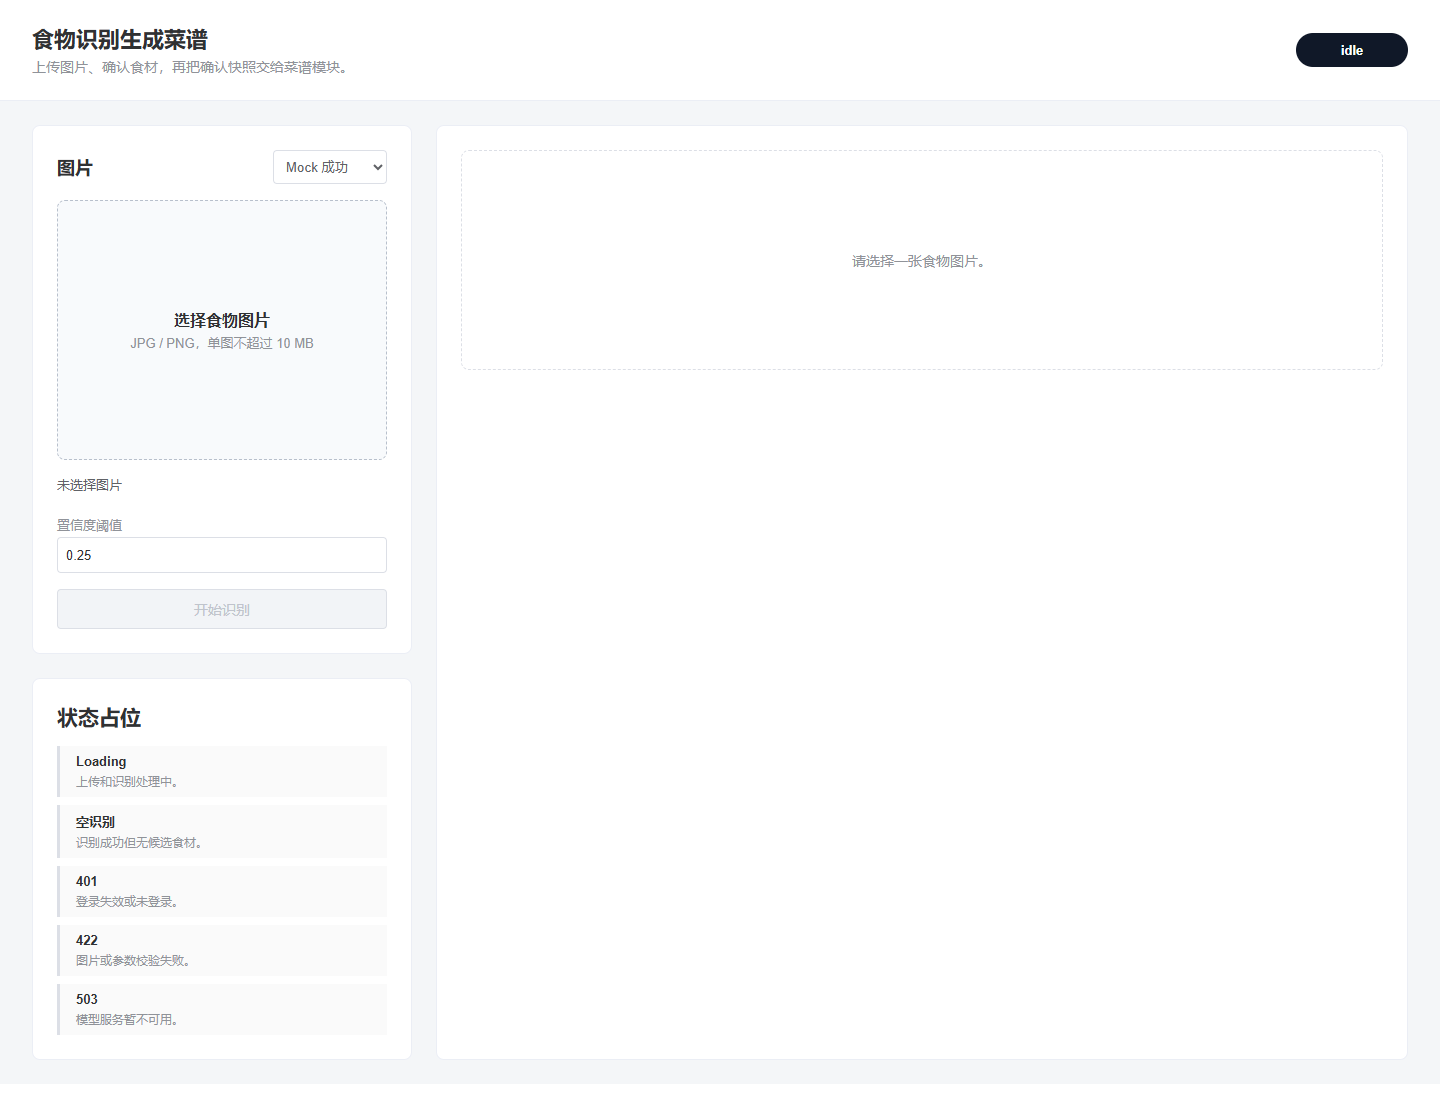
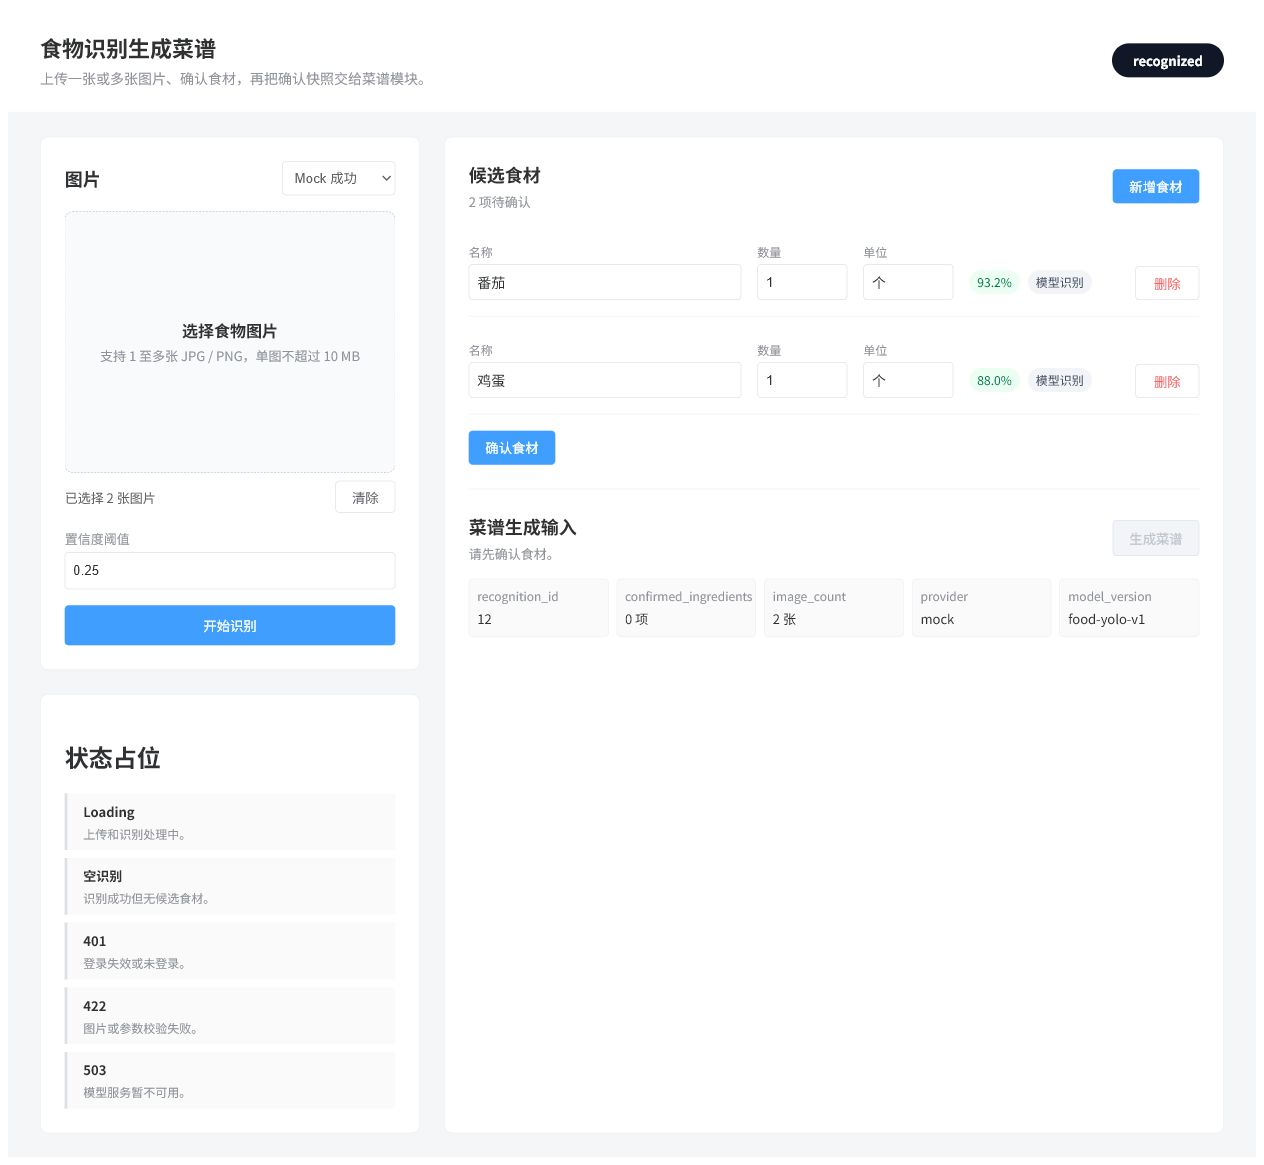
docs(frontend): 更新食物工作流Day1日志证据
- 记录多图上传实现、V1字段修正和测试结果

- 更新 Food 页面骨架截图

diff --git a/docs/daily_logs/刘楚涵/day1.md b/docs/daily_logs/刘楚涵/day1.md
@@ -1,138 +1,81 @@
 # 刘楚涵 Day1 个人工作日志
 
-- 日期：2026-07-14
+- 日期：2026-07-15（复核并修正 Day1 交付）
 - 分支：`feature/frontend-food-workflow`
-- 今日角色：前端工程师，负责上传、识别状态、食材增删改、确认和食物工作流主页面
+- 今日角色：食物识别工作流前端
 
-## 1. 今日任务
+## 1. 实际完成
 
-- 阅读 `DetectionPage.vue` 的上传、预览和错误处理，只复用思路，不直接扩大原页面。
-- 建立 `FoodRecipePage.vue` 的 `idle/selecting/uploading/recognized/confirmed/error` 状态。
-- 建立单图上传组件，限制 JPG/PNG，建议 10 MB 上限，支持本地预览。
-- 建立食材编辑组件，基于 success fixture 显示名称、置信度和来源。
-- 支持删除、手动新增、修改名称，确认前提示空名称和重复 key。
-- 建立 `api/food.js`，冻结 create/get/confirm 路径，并保留 Mock/注入客户端。
-- 为 Loading、空识别、401、422、503 预留可见状态。
-- 明确向菜谱展示区域输出 `recognition_id` 和 `confirmed_ingredients`。
-- 编写组件/API/页面基础测试，运行 Vitest，保存页面骨架截图。
-- 更新个人日志，并提交 router/sidebar 接线需求给闫灿宇。
+- 完成 `frontend/src/api/food.js` 三个 Food API 封装：创建识别、查询识别、确认食材。
+- 按新要求保留多图上传：前端表单提交 `images[]`、首图兼容字段 `image`、内部辅助字段 `image_count`。
+- 完成图片选择、拖拽、多图预览区域、Loading、空结果、错误状态和候选列表骨架。
+- 使用 canonical fixture 字段展示 `display_name` 与 `confidence`，截图中可见“番茄/鸡蛋”和 93.2%/88.0%。
+- 按 V1 `IngredientCandidate` / `ConfirmedIngredient` 增加前端类型说明：`frontend/src/components/food/ingredientTypes.js`。
+- 修正食材确认输出，确认接口只提交 `{ name, class_name, quantity, unit, source }`，不上传 `candidate_id`。
+- 更新组件/API/页面测试，覆盖多图上传、fixture 展示、确认 payload 和空/错误占位。
+- 保存页面骨架截图：`docs/daily_logs/刘楚涵/screenshots/food_page_skeleton.png`。
 
-## 2. 前置阅读
+## 2. 前置阅读和依据
 
-- `食物识别菜谱平台_五天并行开发计划.docx` 中刘楚涵 Day1 任务。
-- `frontend/src/views/DetectionPage.vue`
-- `frontend/src/utils/request.js`
-- `frontend/src/api/detection.js`
-- `frontend/src/assets/styles/variables.scss`
-- `frontend/src/fixtures/foodRecognition.js`
+- 已阅读 `docs/contracts/api_v1.md` 中本人任务相关的第 3、5、13 节。
+- 已阅读 `frontend/src/views/DetectionPage.vue` 上传/预览/状态处理思路。
+- 已阅读 `frontend/src/utils/request.js`，Food API 继续复用现有请求与认证封装。
+- 两份外部 PDF 位于 `D:\2026小学期\...`，本轮尝试读取时受本地权限/沙箱限制，未能直接提取内容；本轮以仓库内 V1 契约和现有前端实现为准继续修正。
 
-## 3. 流程理解
+## 3. 本轮修正的问题
 
-食物工作流不等待后端接线，Day1 先用 Mock 完成可操作骨架：选择单张图片后进入 `selecting`，调用 Mock 识别时进入 `uploading`，成功后进入 `recognized`，用户增删改并确认后进入 `confirmed`，异常统一进入 `error`。菜谱模块只消费确认快照，不直接消费候选识别结果。
+- 原实现仍混有旧字段 `key/name/confidence`，已改为 V1 候选字段 `candidate_id/class_name/display_name/confidence/bbox/source`。
+- 原确认 payload 会带旧字段，已改为 V1 `ConfirmedIngredient`。
+- 原多图需求被误收窄成单图，已按用户明确要求恢复多图选择与提交。
+- 原日志仍写“单图”和“重复 key”校验，已更新为多图与 V1 字段。
 
 ## 4. 修改文件
 
-- `frontend/src/views/FoodRecipePage.vue`
+- `frontend/src/api/food.js`
+- `frontend/src/fixtures/foodRecognition.js`
+- `frontend/src/fixtures/food_recognition_success.json`
+- `frontend/src/fixtures/food_recognition_empty.json`
 - `frontend/src/components/food/FoodImageUploader.vue`
 - `frontend/src/components/food/IngredientEditor.vue`
 - `frontend/src/components/food/RecognitionSummary.vue`
 - `frontend/src/components/food/ingredientEditorModel.js`
-- `frontend/src/api/food.js`
-- `frontend/src/fixtures/foodRecognition.js`
+- `frontend/src/components/food/ingredientTypes.js`
+- `frontend/src/api/__tests__/food.test.js`
 - `frontend/src/components/food/__tests__/FoodImageUploader.test.js`
 - `frontend/src/components/food/__tests__/IngredientEditor.test.js`
 - `frontend/src/views/__tests__/FoodRecipePage.test.js`
-- `frontend/src/api/__tests__/food.test.js`
-- `docs/integration/connection_requests.md`
 - `docs/daily_logs/刘楚涵/day1.md`
 - `docs/daily_logs/刘楚涵/screenshots/food_page_skeleton.png`
 
-## 5. DetectionPage 只复用思路的部分
-
-- 复用“左侧控制、右侧结果”的工作区组织思路，但不把食物流程塞进原检测页。
-- 复用上传前先进入本地状态、按钮 loading、请求失败后可恢复的思路。
-- 复用本地预览使用 Object URL 并在清理时 revoke 的思路。
-- 复用错误需要转成用户可见状态的思路，但食物页单独保留 401/422/503。
-- 不复用 DetectionPage 的场景/模型选择、批量/视频/摄像头、canvas 检测框绘制和旧 detection API。
-
-## 6. 实现思路
-
-- `FoodRecipePage.vue` 负责状态机和 Mock 场景选择，不接正式路由。
-- `FoodImageUploader.vue` 只处理单图选择、拖拽、类型/大小校验和预览。
-- `IngredientEditor.vue` 只处理候选食材的本地编辑、删除、新增和确认校验。
-- `RecognitionSummary.vue` 固化给菜谱模块的 props/emits 契约。
-- `api/food.js` 冻结 `/food/recognitions`、`/food/recognitions/{id}`、`/food/recognitions/{id}/ingredients`，并支持 `setFoodApiClient()` 或 `mockScenario`。
-
-## 7. 本人复核要点
-
-- 检查上传组件只接受 JPG/PNG，拖入多图会提示一次只能上传一张图片。
-- 检查 success fixture 的英文 key 不会在确认时被未修改的中文名称覆盖。
-- 检查空识别仍可手动新增，但空名称不能确认。
-- 检查确认事件 payload 为 `{ recognition_id, confirmed_ingredients }`。
-- 检查没有修改 router/sidebar、Chat、backend、Docker 或依赖锁文件。
-
-## 8. AI 辅助内容
-
-AI 辅助阅读文档、整理组件边界、补充测试、生成日志草稿和接线需求草稿；本人需要继续核对代码并能现场说明状态流、Mock 字段和组件分工。
-
-## 9. AI 检查内容
-
-- 检查 Day1 文档边界，确认 router/sidebar 只能提接线需求。
-- 检查 `DetectionPage.vue` 可复用思路，避免扩大旧检测页。
-- 检查 Vitest 失败原因并修正食物工作流相关断言。
-- 检查截图不是空白页或错误页。
-
-## 10. 命令记录
+## 5. 测试命令和结果
 
 - `bun run vitest run src/api/__tests__/food.test.js src/components/food/__tests__/FoodImageUploader.test.js src/components/food/__tests__/IngredientEditor.test.js src/views/__tests__/FoodRecipePage.test.js`
-- `bun run vitest run src/utils/__tests__/request.test.js`
+  - 结果：4 个测试文件、19 个用例通过。
 - `bun run test`
-- 使用本地预览入口保存页面骨架截图，截图后已删除临时入口文件。
+  - 结果：6 个测试文件、42 个用例通过。
 
-## 11. 测试结果
+## 6. 本人复核要点
 
-- 食物工作流定向测试：4 个测试文件、17 个用例通过。
-- 现有 request 测试单跑：1 个测试文件、6 个用例通过。
-- 完整前端 Vitest：6 个测试文件、40 个用例通过。
+- 检查上传组件支持多图，原生 input 带 `multiple`。
+- 检查 API 封装会把每张图片放进 `images[]`，并保留首图 `image` 兼容字段。
+- 检查 fixture 能显示 `display_name` 和 `confidence`。
+- 检查确认食材不会上传 `candidate_id`。
+- 检查未修改 `backend/`、`ChatPage.vue`、`router/index.js`、`AppSidebar.vue`。
 
-## 12. 截图证据
+## 7. AI 辅助内容
 
-- `docs/daily_logs/刘楚涵/screenshots/food_page_skeleton.png`
+- AI 辅助对照 V1 第 3、5、13 节做字段审查。
+- AI 辅助修正多图上传、fixture、食材确认模型、测试断言和日志。
+- AI 辅助运行前端测试并保存页面骨架截图；本人仍需能现场说明多图前端字段与 V1 单图字段的差异。
 
-## 13. 遇到的问题
+## 8. Commit 与 PR
 
-- 首次在沙箱内运行 `bun run test` 被环境拦截，改为按权限请求正常运行。
-- 第一轮全量测试中，新增测试有断言不准确：食材名称在 input value 中，不在普通文本里。
-- 发现确认前刷新 key 时会把 success fixture 的英文 key 覆盖成中文名称。
-- 全量测试第一次运行时 `request.test.js` 偶发超时，单跑通过；修正新增测试后再次全量通过。
-- 内置浏览器截图插件初始化失败，改用本机 Edge + Playwright 保存截图。
+- 本轮前端代码提交：`61837de feat(frontend): 完善食物多图识别页面骨架`
+- PR：未创建。
+- Push：未执行，遵守“不要执行 Push、合并或权限设置”。
 
-## 14. 原因分析
+## 9. 风险和待对接
 
-- 页面表单值需要用 input value 断言，不能用容器文本断言。
-- `refreshKeys()` 不应无条件根据名称重算 key；未修改的模型候选应保留 fixture key。
-- `request.test.js` 的首次超时与并发启动/冷启动有关，单跑和最终全量均通过。
-
-## 15. 解决方式
-
-- 上传组件增加多图拖拽校验和测试。
-- `IngredientEditor.vue` 改为只在 key 缺失时根据名称生成 key。
-- 页面测试改为检查 input value、确认事件和菜谱请求事件。
-- 新增 API 契约测试，覆盖冻结路径、Mock fixture 和注入客户端。
-- 使用临时预览入口截图，截图后删除临时入口，不修改正式路由。
-
-## 16. Commit 与 PR
-
-- Commit 信息建议：`feat(frontend): 增加食材编辑工作流骨架`
-- 已完成前端功能提交：`8f886a5`
-- 已完成文档证据提交：`432cfb9`
-- PR 目标：`develop`
-- 远端分支：`github/feature/frontend-food-workflow`
-- PR 直达链接：`https://github.com/HL123456789123/xjtu-visagent2026--/pull/new/feature/frontend-food-workflow`
-- PR 状态：本机无 `gh` 命令，已推送分支并保留创建链接；router/sidebar 接线需求已写入 `docs/integration/connection_requests.md`。
-
-## 17. 明日计划
-
-- 等待后端 Mock API 接线后，将页面 Mock 调用替换为同 DTO 的真实 Mock 接口。
-- 配合李晨宁核对菜谱展示区消费 `recognition_id` 和 `confirmed_ingredients` 的字段。
-- 配合闫灿宇完成 router/sidebar 统一接线和权限字段确认。
+- V1 第 5 节当前只写 `image` 单图上传；用户本轮明确要求多图上传，所以前端现在提交 `images[] + image + image_count`。这需要后端或 V1 owner 确认是否正式接收多图。
+- `backend/tests/fixtures/` 在本地仓库不存在，本轮按要求未修改 backend，只在前端新增同字段 fixture。
+- router/sidebar 已有接线记录，本轮没有改共享文件；后续仍由闫灿宇统一维护。
